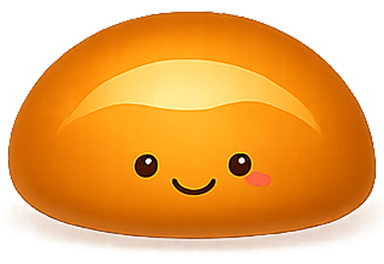
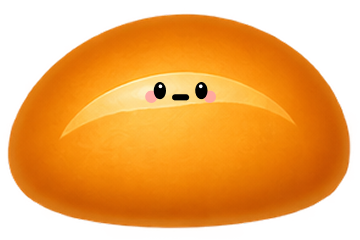
feat :: Ok Mallang B 폰트 등록 및 반죽/구움/아바타 이미지 교체
- Ok Mallang B.ttf를 OkMallangB-Regular.ttf로 리네임(공백 파일명이 Android에서
  Metro 폰트 asset 로드를 깨뜨리는 문제) 후 useFonts에 등록
- font-ok-mallang-b Tailwind 클래스가 실기기에서 항상 시스템 폰트로 폴백되는
  NativeWind 자체 한계를 발견해 우회용 okMallangBStyle 유틸 추가, AGENTS.md에 문서화
- dough_*/baked_* 반죽·완성 빵 이미지를 새 에셋으로 교체
- avatar.png를 성별/방향별 avatar_{boy,girl}_{front,back}.png로 교체
- 더 이상 쓰이지 않는 butter/oven/trolley 이미지 삭제

diff --git a/src/constants/typography.ts b/src/constants/typography.ts
@@ -9,11 +9,31 @@
  * Heading = "Yde street B", Body = "Yde street L" 로 서로 다른 패밀리를 쓴다.
  * RN 은 정적 폰트 파일 간 굵기 합성을 못 하므로 fontWeight 대신 패밀리를 나눈다.
  * 값 = ttf 의 PostScript 이름 = src/app/_layout.tsx 의 useFonts 키.
+ *
+ * okMallangB 폰트 파일은 "OkMallangB-Regular.ttf" (Calligraphr 제작, 원본 파일명
+ * "Ok Mallang B.ttf"에서 공백 제거하여 리네임 — Android에서 Metro가 공백 포함 파일명의 폰트
+ * asset을 정상 로드하지 못해 커스텀 폰트가 조용히 시스템 기본 폰트로 폴백되는 문제가 있었음).
+ *
+ * 등록 키(useFonts)와 이 값은 ttf의 실제 PostScript 이름("OkMallangB-Regular")과 달리
+ * "OkMallangBRegular"를 쓴다 — expo-font의 Android 커스텀 폰트 레지스트리는 useFonts에 넘긴
+ * 키 문자열 그대로 등록/조회하므로 ttf 내부 이름과 달라도 무방하다.
+ *
+ * 실기기(Android) 확인된 별도 버그: 이 값을 `font-ok-mallang-b` Tailwind 클래스(NativeWind
+ * className 경로)로 적용하면 하이픈 유무와 무관하게 항상 시스템 기본 폰트로 조용히 폴백된다
+ * (raw `style={{ fontFamily: fontFamily.okMallangB }}`는 정상 렌더 — RN/폰트 등록 자체는
+ * 문제없고, NativeWind v4의 CSS→RN 스타일 변환 파이프라인에서만 이 패밀리가 깨짐. 원인을
+ * 하이픈으로 의심해 제거해봤지만 재현됨 — NativeWind 자체의 한계로 결론). 그래서 이 폰트는
+ * className(`font-ok-mallang-b`)이 아니라 아래 `okMallangBStyle`을 `style` prop으로 직접
+ * 적용한다 — §16 인라인 스타일 금지의 예외(측정된 이유 있음, Reanimated 예외와 동급).
  */
 export const fontFamily = {
   ydeStreetB: 'YdestreetB',
   ydeStreetL: 'YdestreetL',
+  okMallangB: 'OkMallangBRegular',
 };
+
+/** `font-ok-mallang-b` 클래스가 실기기에서 깨지는 문제의 우회 — 위 주석 참고. */
+export const okMallangBStyle = { fontFamily: fontFamily.okMallangB };
 
 /** Figma 텍스트 스타일 공통 line-height (160%) */
 export const lineHeightRatio = 1.6;
@@ -94,7 +114,11 @@ const toTailwindFontSize = (size: number): TailwindFontSize => [
   { lineHeight: String(lineHeightRatio) },
 ];
 
-/** `font-yde-street-b` / `font-yde-street-l` */
+/**
+ * `font-yde-street-b` / `font-yde-street-l`. Ok Mallang B는 여기 없다 — `font-ok-mallang-b`
+ * Tailwind 클래스는 실기기에서 항상 폰트가 깨진다(위 okMallangBStyle 주석 참고). 일부러
+ * 제외해 그 클래스 자체가 존재할 수 없게 한다.
+ */
 export const tailwindFontFamily = {
   'yde-street-b': [fontFamily.ydeStreetB],
   'yde-street-l': [fontFamily.ydeStreetL],

diff --git a/src/app/_layout.tsx b/src/app/_layout.tsx
@@ -31,6 +31,7 @@ export default function RootLayout() {
   const [loaded, error] = useFonts({
     YdestreetB: require('@/src/assets/fonts/YdestreetB.ttf'),
     YdestreetL: require('@/src/assets/fonts/YdestreetL.ttf'),
+    OkMallangBRegular: require('@/src/assets/fonts/OkMallangB-Regular.ttf'),
   });
 
   useEffect(() => {

diff --git a/AGENTS.md b/AGENTS.md
@@ -202,17 +202,18 @@ Unit tests live next to the code under test in a `__tests__/` folder. Do not aim
 
 Three fonts are used in Luvin:
 
-| Font           | Registered family | Usage                                                                             |
-| -------------- | ----------------- | --------------------------------------------------------------------------------- |
-| `Yde street B` | `YdestreetB`      | Headlines, brand elements, display text                                           |
-| `Yde street L` | `YdestreetL`      | Body text, descriptions, subtext                                                  |
-| `OK Mallang B` | `OKMallangB`      | 러빈지옥 titles and emphasis copy (episode titles, mission banners, key callouts) |
+| Font           | Registered family   | Usage                                                                             |
+| -------------- | -------------------- | --------------------------------------------------------------------------------- |
+| `Yde street B` | `YdestreetB`         | Headlines, brand elements, display text                                           |
+| `Yde street L` | `YdestreetL`         | Body text, descriptions, subtext                                                  |
+| `Ok Mallang B` | `OkMallangBRegular`  | 러빈지옥 titles and emphasis copy (episode titles, mission banners, key callouts) |
 
 Do NOT use any other font. All font usage details are defined in Figma.
 
-- The three `.ttf` files live in `src/assets/fonts/` and are loaded with `useFonts` in `src/app/_layout.tsx`
-- **One invariant, three places**: the `useFonts` key, the PostScript name in the `.ttf`, and `fontFamily` in `src/constants/typography.ts` (which feeds Tailwind) must all be the same string. Changing one without the others silently falls back to the system font
-- RN cannot synthesize weight across static font files, so weight is expressed by **switching family** (`YdestreetB` / `YdestreetL` / `OKMallangB`) — never with `fontWeight` or `font-bold`
+- The three `.ttf` files live in `src/assets/fonts/` and are loaded with `useFonts` in `src/app/_layout.tsx`. The Ok Mallang B file is `OkMallangB-Regular.ttf`, renamed from its original `Ok Mallang B.ttf` — a space in the filename broke Metro's font asset resolution on Android (the font silently fell back to the system font while every other style still applied). Never reintroduce a space in a font filename
+- **One invariant, everywhere the registered family is referenced**: the `useFonts` key and `fontFamily` in `src/constants/typography.ts` (which feeds Tailwind) must be the same string. Changing one without the other silently falls back to the system font. For Ok Mallang B this registered string is `OkMallangBRegular` — deliberately **not** the same as the `.ttf`'s actual PostScript name (`OkMallangB-Regular`, verified via the `name` table). They don't need to match: expo-font's Android font registry looks fonts up by whatever key you pass to `useFonts`, not by the file's internal PostScript name
+- **Verified on-device bug: never apply Ok Mallang B via the `font-ok-mallang-b` Tailwind class.** NativeWind v4's CSS-to-RN-style pipeline silently drops this font family on the `className` path — confirmed on a real Android device, reproduced with and without a hyphen in the registered name (so it isn't a hyphen-parsing issue, just a NativeWind limitation with this font) — while the exact same string applied as a raw `style={{ fontFamily: fontFamily.okMallangB }}` renders correctly every time. Use the exported `okMallangBStyle` object from `typography.ts` as a `style` prop wherever Ok Mallang B is needed (the `Text` component's `display-title`/`display-score` variants already do this) — this is a deliberate, measured exception to the inline-style ban (§16), on the same footing as the Reanimated exception. `text-display-title` / `text-display-score` (font SIZE only) remain fine as Tailwind classes; only the font-FAMILY utility is broken
+- RN cannot synthesize weight across static font files, so weight is expressed by **switching family** (`YdestreetB` / `YdestreetL` / `OkMallangBRegular`) — never with `fontWeight` or `font-bold`
 - Use the Tailwind `fontSize`/`fontFamily` tokens generated from `typography.ts` (Figma `Heading/H1`–`H5`, `Body/XL`–`XXS`, all at a 160% line-height ratio) — do not set a raw `fontSize`
 
 ### Exception: `OK Mallang B` has no registered font-size scale
@@ -220,7 +221,7 @@ Do NOT use any other font. All font usage details are defined in Figma.
 Unlike `YdestreetB`/`YdestreetL`, `OK Mallang B` is **not** covered by the `Heading/*` / `Body/*` text styles in Figma — there is no size token for it in `typography.ts`.
 
 - Every time `OK Mallang B` is used, **check the exact font size in Figma for that specific instance** (episode title, mission banner, etc.) — do not reuse a size from another `OKMallangB` usage without checking, since each one may differ
-- This is the one place a raw `fontSize` value is allowed, since no token exists to reference. Still route it through NativeWind (a one-off Tailwind class or `className` value backed by the Figma-read px value) rather than a `style={{}}` object
+- This is the one place a raw `fontSize` value is allowed, since no token exists to reference. Route the SIZE through NativeWind (a one-off Tailwind class like `text-[50px]`) — but the FAMILY still goes through `okMallangBStyle` as a `style` prop, per the on-device bug noted above, never `font-ok-mallang-b`
 - If the same size is reused across 2+ places, add it to `typography.ts` as a named token at that point — don't leave duplicated raw values scattered across components
 
 ---
